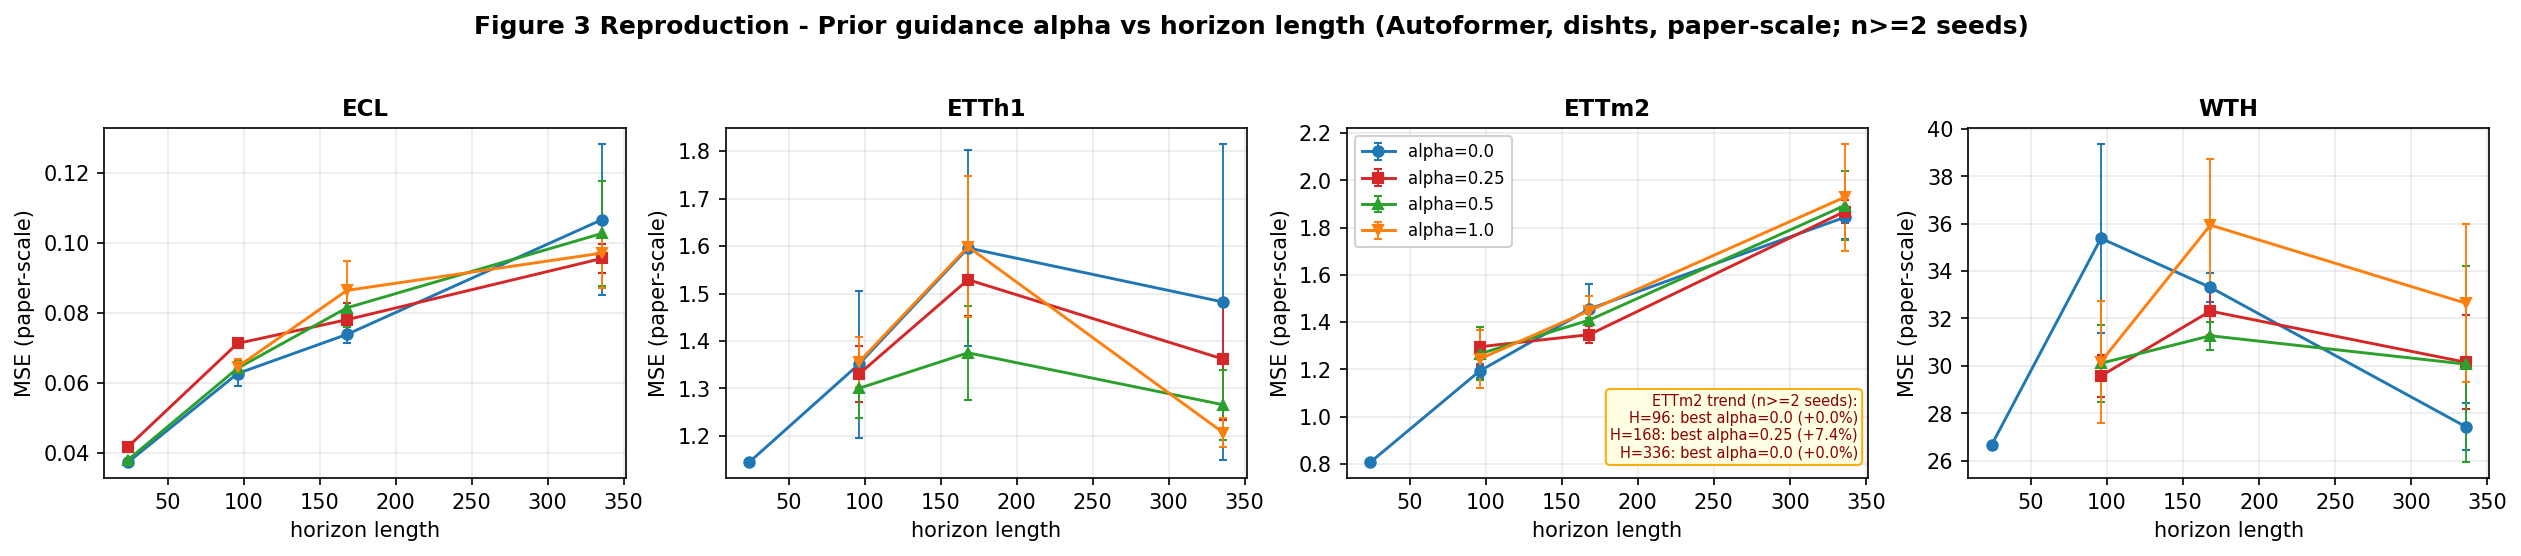
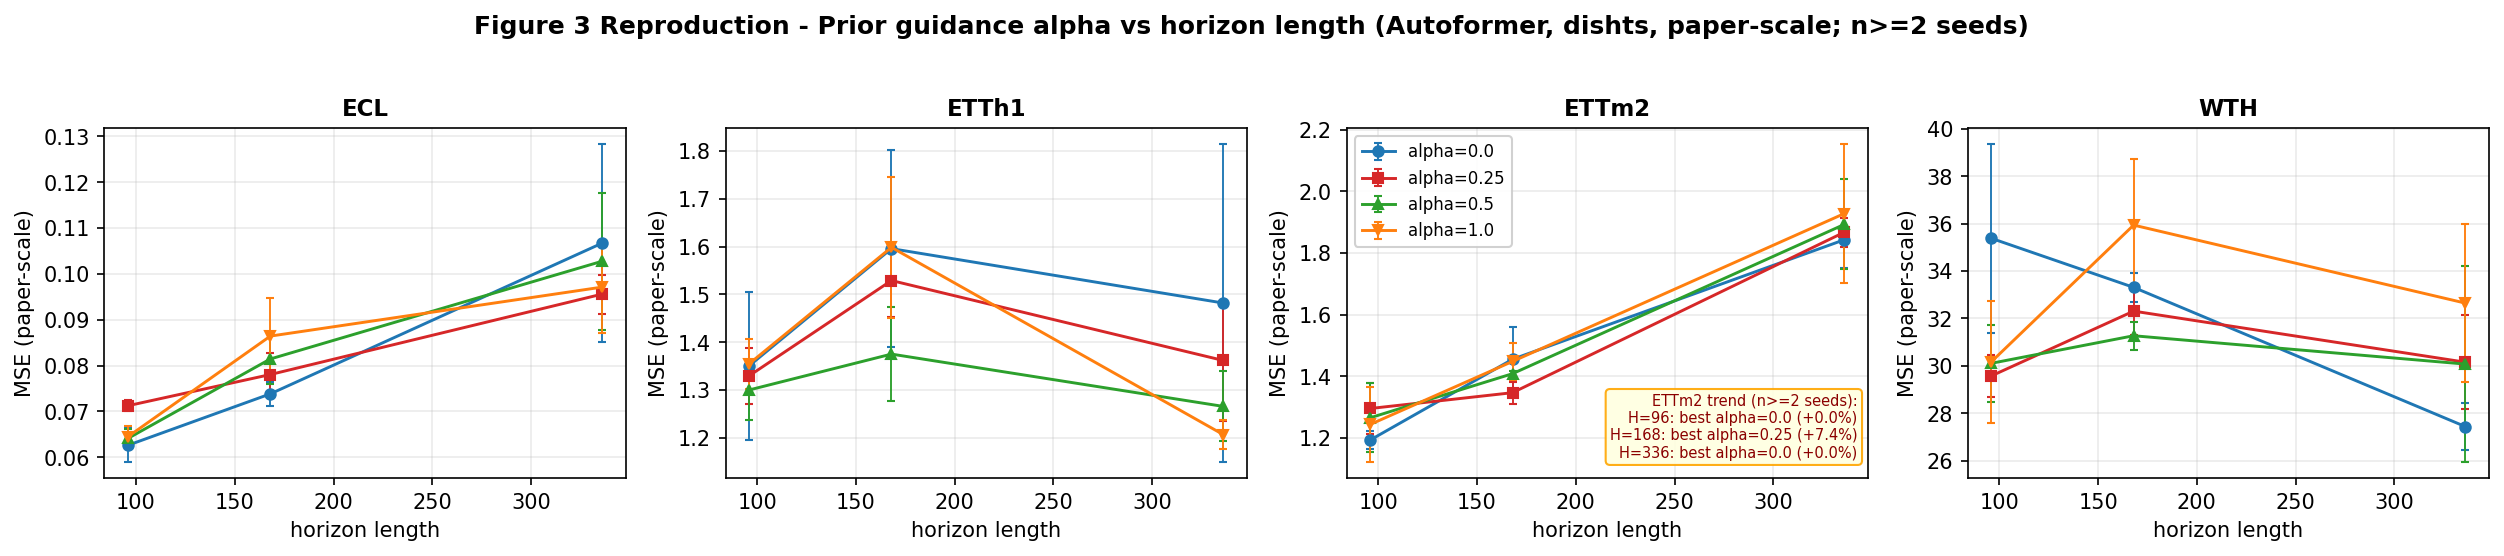
Drop H=24 from PPT figures: Phase 2a/2b only scan {96,168,336}, only ECL has sparse H=24 data which would mislead the figure

diff --git a/repro_figures/plot_ppt_comparison.py b/repro_figures/plot_ppt_comparison.py
@@ -55,6 +55,12 @@ def load_rows(path: Path) -> list[dict]:
                 continue
             if r["norm"] != "dishts" or math.isnan(r["MSE"]) or math.isinf(r["MSE"]):
                 continue
+            # Exclude H=24: Phase 2a/2b only scan {96, 168, 336} (paper Fig.3
+            # does not cover H=24). Only ECL has 5 alpha values at H=24 from
+            # an early ad-hoc run; plotting it together with the 3 main horizons
+            # would be misleading.
+            if r["pred_len"] == 24:
+                continue
             rows.append(r)
     return rows
 
@@ -199,7 +205,7 @@ def plot_dishts_vs_paper(rows: list[dict]) -> Path:
     # 1. Compute our best (dataset, pred_len) -> (best_alpha, best_mse_raw, n_seeds)
     cell_best = {}
     for ds in ["ETTm2", "WTH", "ETTh1", "ECL"]:
-        for pl in [24, 96, 168, 336]:
+        for pl in [96, 168, 336]:  # Phase 2a/2b scan range (H=24 excluded)
             cell = defaultdict(list)
             for r in rows:
                 if r["dataset"] == ds and r["pred_len"] == pl:
@@ -214,7 +220,7 @@ def plot_dishts_vs_paper(rows: list[dict]) -> Path:
 
     # 2. Build plot
     datasets = ["ETTm2", "WTH", "ETTh1"]
-    common_lens = [24, 96, 168, 336]
+    common_lens = [96, 168, 336]  # match Phase 2a/2b scan range
 
     fig, axes = plt.subplots(1, len(datasets), figsize=(4.5 * len(datasets), 4.2))
 
@@ -292,7 +298,7 @@ def main() -> int:
     print("\nBest (alpha) per (dataset, pred_len):")
     print(f"  {'dataset':>8s} {'pred_len':>9s} {'best_a':>7s} {'raw_MSE':>10s} {'scaled_MSE':>11s} {'paper':>10s} {'ratio':>6s}")
     for ds in ["ETTm2", "WTH", "ETTh1", "ECL"]:
-        for pl in [24, 96, 168, 336]:
+        for pl in [96, 168, 336]:  # Phase 2a/2b scan range (H=24 excluded)
             cell = defaultdict(list)
             for r in rows:
                 if r["dataset"] == ds and r["pred_len"] == pl:
